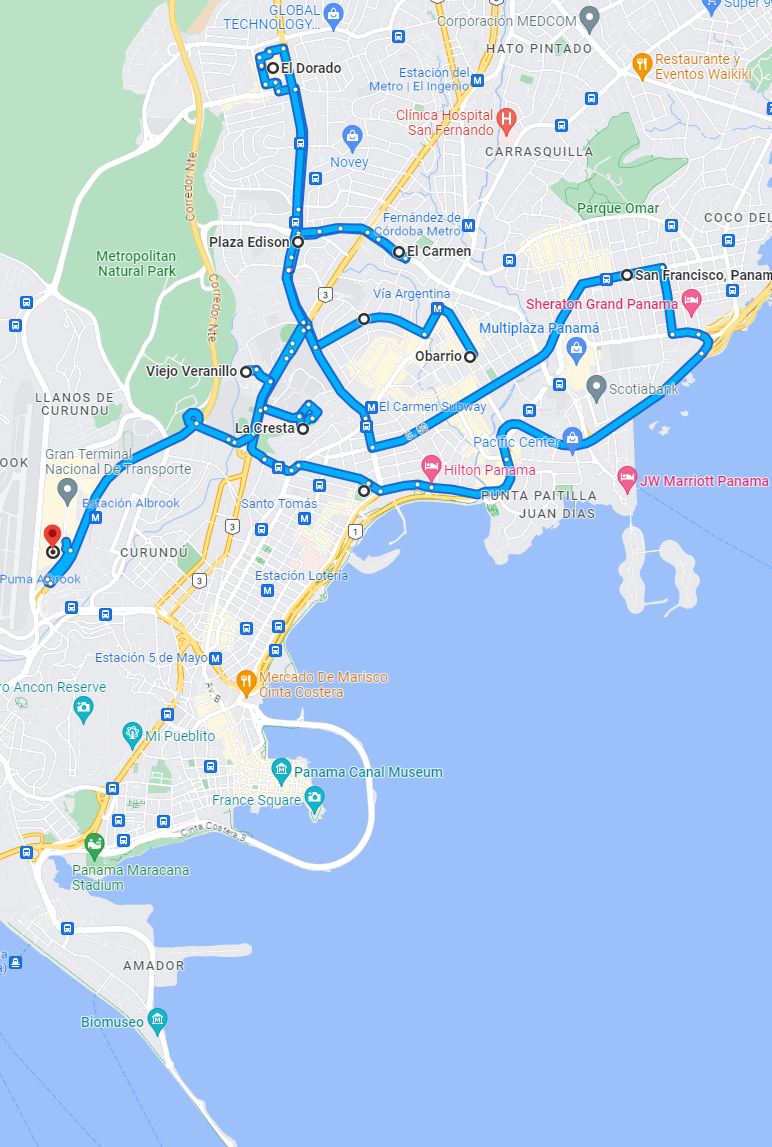
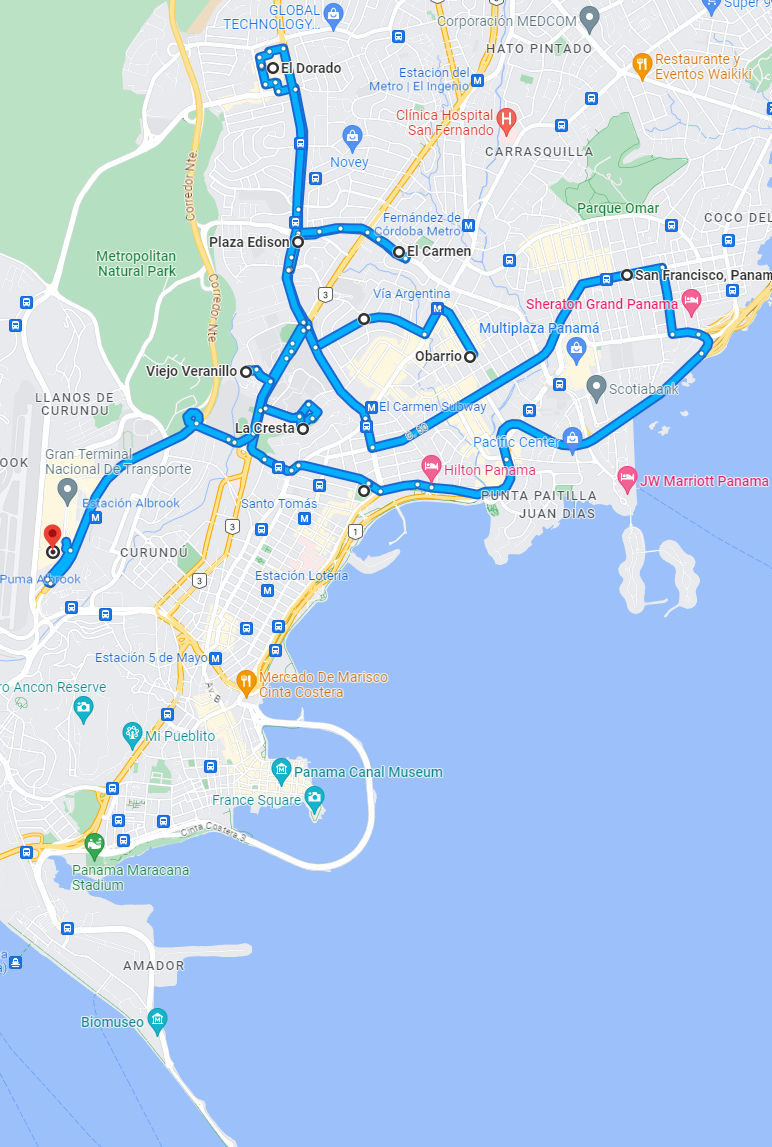
resized images on transportation page

diff --git a/src/pages/Home/BlogDetails.css b/src/pages/Home/BlogDetails.css
@@ -178,16 +178,16 @@ p.this-article {
     position: relative;
 }
 
+/* transportaion page images */
+
 .rapi-card {
-    padding-top: calc(912/ 1447 * 100%);
+    padding-top: calc(739/ 1170 * 100%);
     position: relative;
     margin-bottom: 20px;
 }
 
-/* transportaion page images */
-
 .chiva {
-    padding-top: calc(2268 / 3024 * 100%);
+    padding-top: calc(878 / 1170 * 100%);
 }
 
 .metro-map {
@@ -199,7 +199,7 @@ p.this-article {
 }
 
 .free-shuttle {
-    padding-top: calc(1506 / 3018 * 100%);
+    padding-top: calc(584 / 1170 * 100%);
 }
 
 .metro-bus {
@@ -207,19 +207,19 @@ p.this-article {
 }
 
 .diablos, .chicken-bus, .yellow-cabs {
-    padding-top: calc(2752 / 4896 * 100%);
+    padding-top: calc(658 / 1170 * 100%);
 }
 
 .albrook-terminal {
-    padding-top: calc(3306 / 4896 * 100%);
+    padding-top: calc(791 / 1170 * 100%);
 }
 
 .comfy-bus, .coronado-stop, .taxi-truck, .mini-van, .inside-van, .hwy  {
-    padding-top: calc(3024 / 4032 * 100%);
+    padding-top: calc(877 / 1169 * 100%);
 }
 
 .coaster-bus {
-    padding-top: calc(2276 / 3020 * 100%);
+    padding-top: calc(882 / 1170 * 100%);
 }
 
 .coronado-map {
@@ -227,11 +227,11 @@ p.this-article {
 }
 
 .gates {
-    padding-top: calc(1287 / 3999 * 100%);
+    padding-top: calc(377 / 1170 * 100%);
 }
 
 .alex-bus {
-    padding-top: calc(3264/ 2448 * 100%);
+    padding-top: calc(1560/ 1170 * 100%);
 }
 
 /* el cangrejo page images */
